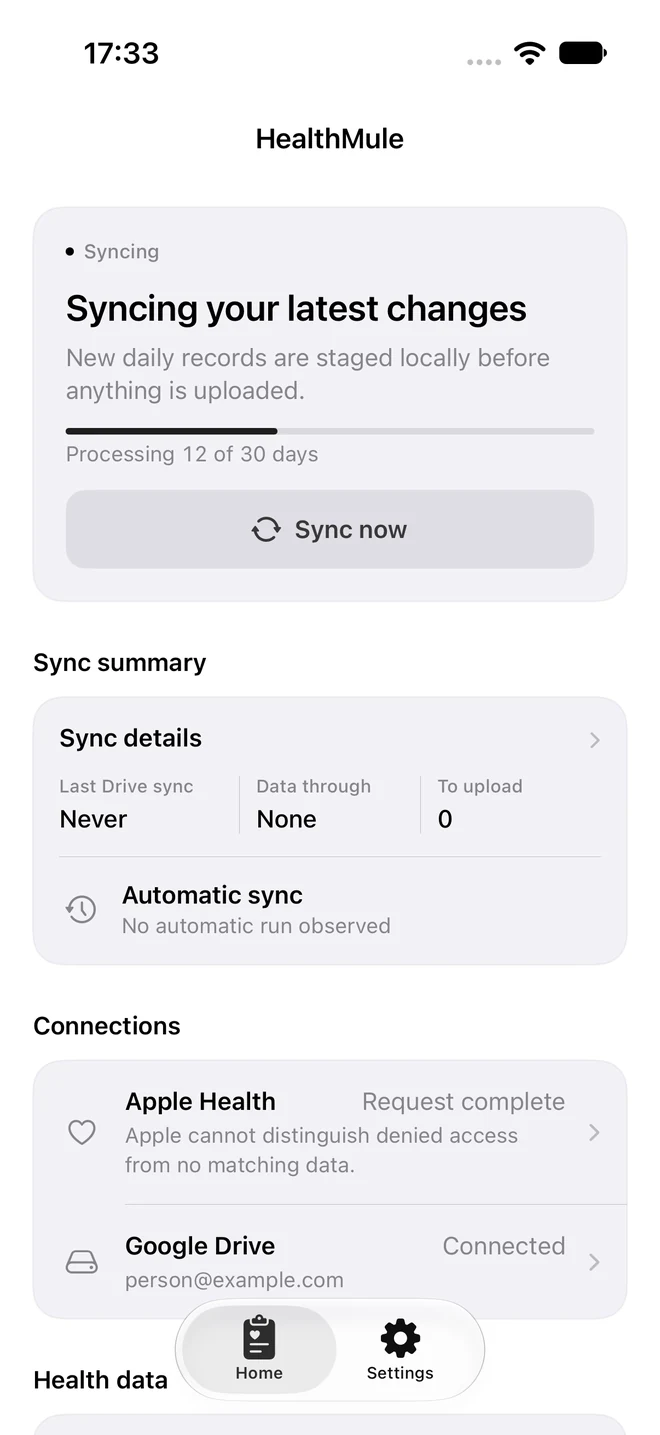
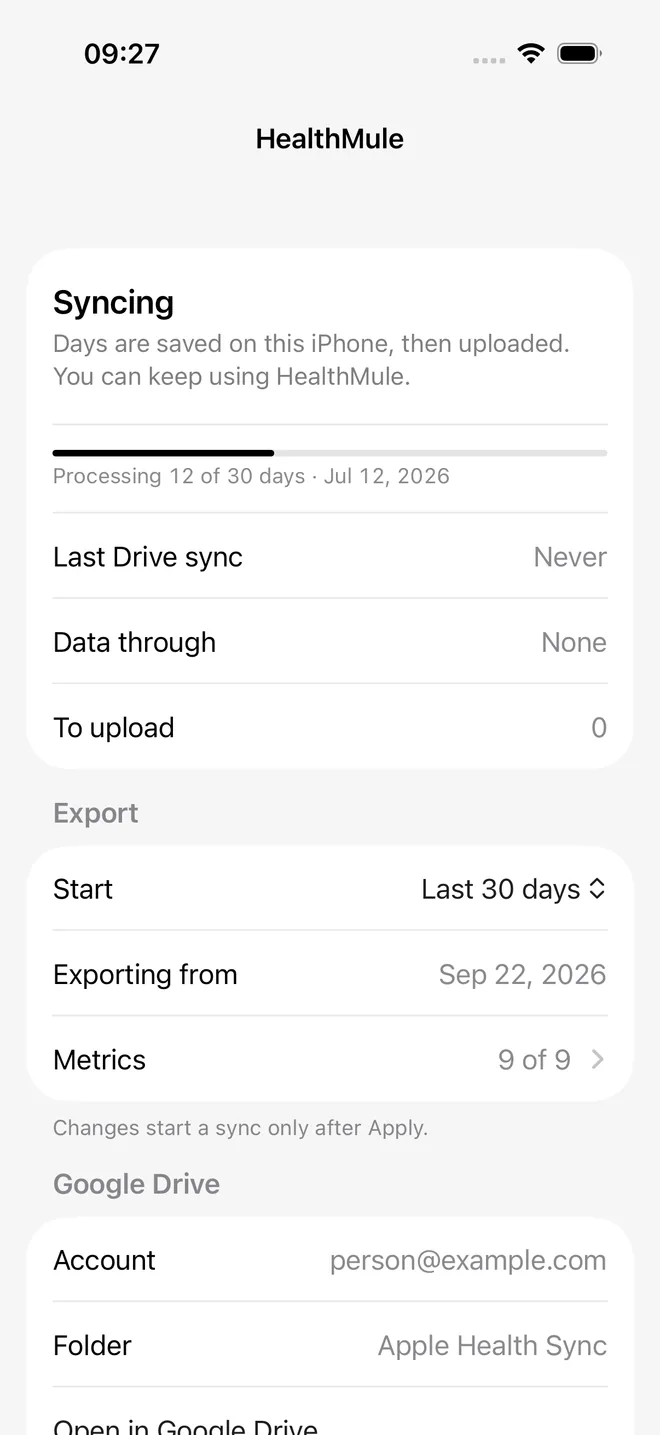
feat: match the app and website screenshots to the site's neutral style

diff --git a/website/index.html b/website/index.html
@@ -26,14 +26,14 @@
     <section class="app-preview" aria-label="Explore HealthMule" aria-describedby="preview-note">
       <fieldset class="preview-controls">
         <legend class="visually-hidden">Choose an app screen</legend>
-        <label><input type="radio" name="preview" id="preview-home"><span>Home</span></label>
-        <label><input type="radio" name="preview" id="preview-settings" checked><span>Settings</span></label>
+        <label><input type="radio" name="preview" id="preview-home" checked><span>Home</span></label>
+        <label><input type="radio" name="preview" id="preview-metrics"><span>Metrics</span></label>
         <label><input type="radio" name="preview" id="preview-sync"><span>Sync</span></label>
       </fieldset>
       <div class="screens">
-        <figure class="preview-home"><img src="/assets/home-dark.webp" width="660" height="1435" alt="HealthMule Home in dark mode, ready for the first sync, with a sync summary and connection status." loading="lazy"><figcaption>Check connections and sync status.</figcaption></figure>
-        <figure class="preview-settings"><img src="/assets/settings.webp" width="660" height="1435" alt="HealthMule Settings with the nine supported health metric toggles enabled." fetchpriority="high"><figcaption>Choose which health metrics to include.</figcaption></figure>
-        <figure class="preview-sync"><img src="/assets/sync-in-progress.webp" width="660" height="1435" alt="HealthMule sync progress, showing Processing 12 of 30 days." loading="lazy"><figcaption>Follow daily records as they are prepared.</figcaption></figure>
+        <figure class="preview-home"><img src="/assets/home-dark.webp" width="660" height="1435" alt="HealthMule Home in dark mode, ready for the first sync, with export range and Drive details." fetchpriority="high"><figcaption>Sync, export range, and Drive on one screen.</figcaption></figure>
+        <figure class="preview-metrics"><img src="/assets/metrics.webp" width="660" height="1435" alt="HealthMule Metrics with the nine supported health metric toggles enabled." loading="lazy"><figcaption>Choose which health metrics to include.</figcaption></figure>
+        <figure class="preview-sync"><img src="/assets/sync-in-progress.webp" width="660" height="1435" alt="HealthMule sync progress, showing Processing 12 of 30 days and the current date." loading="lazy"><figcaption>Follow daily records as they are prepared.</figcaption></figure>
       </div>
       <p class="preview-note" id="preview-note">Simulator previews with sample states, not live Drive uploads.</p>
     </section>

diff --git a/HealthMuleApp/UI/HomeView.swift b/HealthMuleApp/UI/HomeView.swift
@@ -30,8 +30,9 @@ struct HomeView: View {
                 Text("No developer backend, analytics, or write access to Apple Health.")
             }
         }
-        .listSectionSpacing(.compact)
+        .pageStyle()
         .navigationTitle("HealthMule")
+        .navigationBarTitleDisplayMode(.inline)
         .accessibilityIdentifier("home-screen")
         .refreshable {
             await model.applicationDidBecomeActive()
@@ -49,7 +50,7 @@ struct HomeView: View {
             VStack(alignment: .leading, spacing: 4) {
                 HStack(spacing: 8) {
                     Text(status.title)
-                        .font(.headline)
+                        .font(.title3.weight(.semibold))
                         .foregroundStyle(status.isProblem ? Color.red : .primary)
                         .accessibilityIdentifier("status-title")
                     if model.operationState.isWorking(.sync), model.syncProgress == nil {
@@ -61,7 +62,7 @@ struct HomeView: View {
                     .foregroundStyle(.secondary)
                     .accessibilityIdentifier("status-message")
             }
-            .padding(.vertical, 2)
+            .padding(.vertical, 6)
             .accessibilityElement(children: .combine)
 
             if let progress = model.syncProgress, progress.totalUnits > 0 {
@@ -100,7 +101,7 @@ struct HomeView: View {
             Button {
                 Task { await model.reconcile(trigger: .manual) }
             } label: {
-                Label(title, systemImage: "arrow.triangle.2.circlepath")
+                Text(title)
                     .fontWeight(.semibold)
                     .foregroundStyle(Color(uiColor: .systemBackground))
                     .frame(maxWidth: .infinity)
@@ -375,6 +376,15 @@ struct HomeView: View {
 }
 
 /// Shows the latest user-visible operation message unless the status already says it.
+extension View {
+    /// Neutral page grays shared with healthmule.uinaf.dev.
+    func pageStyle() -> some View {
+        listSectionSpacing(.compact)
+            .scrollContentBackground(.hidden)
+            .background(Color("PageBackground"))
+    }
+}
+
 struct OperationNote: View {
     let message: String
     let isFailure: Bool

diff --git a/website/styles.css b/website/styles.css
@@ -49,7 +49,7 @@ h1 { font-size: clamp(34px, 4.2vw, 48px); line-height: 1.14; font-weight: 600; l
 .screens { width: min(100%, 264px); margin-inline: auto; }
 .screens figure { display: none; margin: 0; }
 .app-preview:has(#preview-home:checked) .preview-home,
-.app-preview:has(#preview-settings:checked) .preview-settings,
+.app-preview:has(#preview-metrics:checked) .preview-metrics,
 .app-preview:has(#preview-sync:checked) .preview-sync { display: block; }
 .screens img { display: block; width: 100%; height: auto; border: 1px solid var(--line); border-radius: 18px; }
 .screens figcaption { text-align: center; color: var(--muted); font-size: 12px; margin-top: 16px; }

diff --git a/HealthMuleApp/UI/AdvancedView.swift b/HealthMuleApp/UI/AdvancedView.swift
@@ -89,6 +89,7 @@ struct AdvancedView: View {
                 Text("Apple Health data is never changed.")
             }
         }
+        .pageStyle()
         .navigationTitle("Advanced")
         .navigationBarTitleDisplayMode(.inline)
         .accessibilityIdentifier("advanced-screen")

diff --git a/HealthMuleApp/UI/MetricsView.swift b/HealthMuleApp/UI/MetricsView.swift
@@ -44,6 +44,7 @@ struct MetricsView: View {
                 }
             }
         }
+        .pageStyle()
         .navigationTitle("Metrics")
         .navigationBarTitleDisplayMode(.inline)
         .accessibilityIdentifier("metrics-screen")
